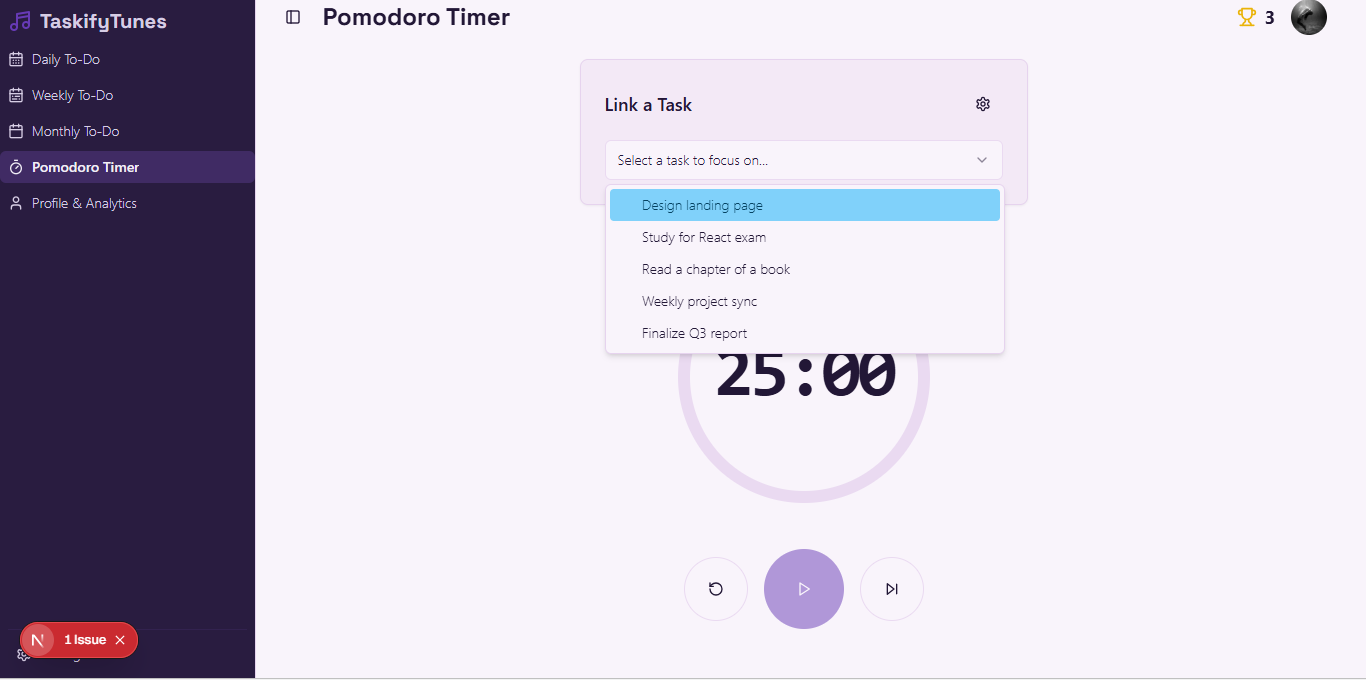
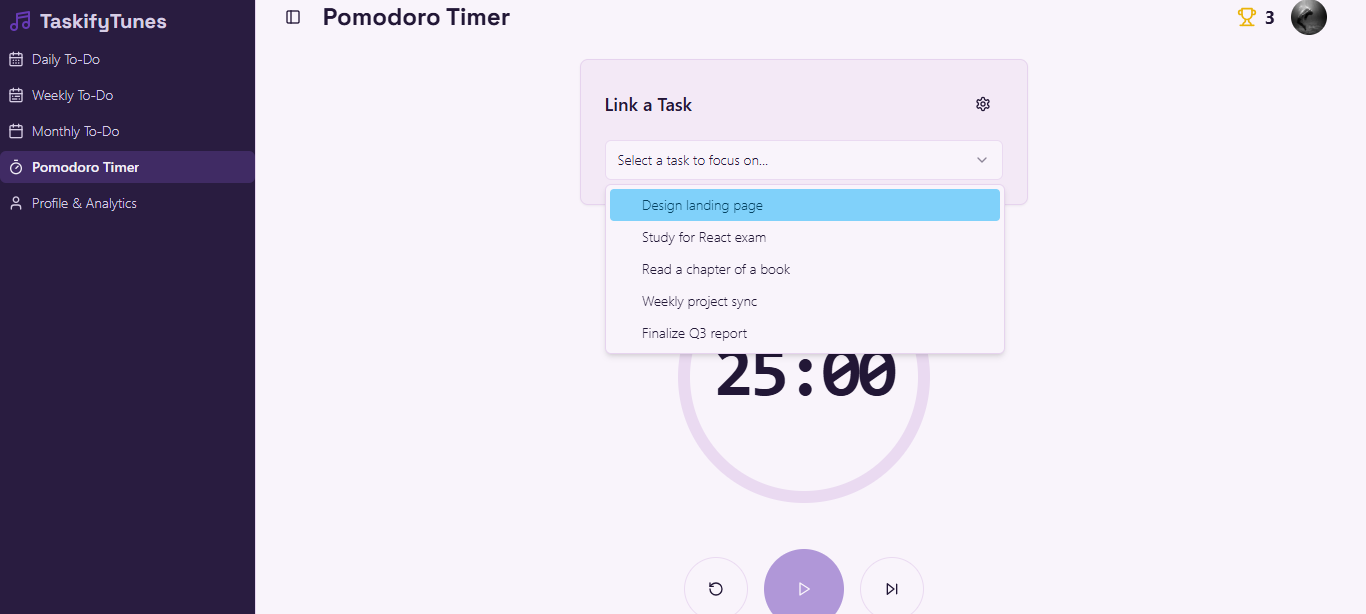
add new screenshots for Koruna CMS in index.html

diff --git a/index.html b/index.html
@@ -327,9 +327,9 @@
                 title: "Koruna CMS",
                 tag: "Content Management",
                 screenshots: [
-                    "login page.png",
-                    "dashboard.png",
-                    "portfolio.png",                 
+                    "CMS 1.PNG",
+                    "CMS 2.PNG",
+                    "CMS 3.PNG"                
                 ],
                 // DESKRIPSI BARU EASYCAFE
                 desc_id: "Sebuah sistem manajemen konten untuk situs web.",
